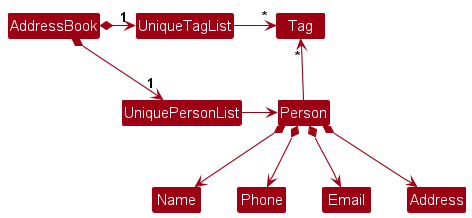
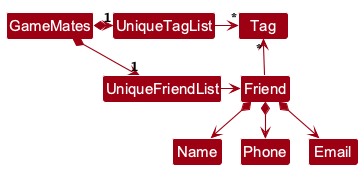
Deploying to gh-pages from @ benwoo1110/tp@bd90ea1fdfd576bb88c184a46715a4b2f2fce923 🚀

Changed region(s): [[0.0, 0.0294, 1.0, 1.0]]

diff --git a/UserGuide.html b/UserGuide.html
@@ -91,7 +91,7 @@ Some example commands you can try:</p>
         <p><code class="language-plaintext highlighter-rouge">list</code> : Lists all contacts.</p>
       </li>
       <li>
-        <p><code class="language-plaintext highlighter-rouge">add n/John Doe p/98765432 e/johnd@example.com a/John street, block 123, #01-01</code> : Adds a contact named <code class="language-plaintext highlighter-rouge">John Doe</code> to GameMates.</p>
+        <p><code class="language-plaintext highlighter-rouge">add n/John Doe p/98765432 e/johnd@example.com</code> : Adds a contact named <code class="language-plaintext highlighter-rouge">John Doe</code> to GameMates.</p>
       </li>
       <li>
         <p><code class="language-plaintext highlighter-rouge">delete 3</code> : Deletes the 3rd contact shown in the current list.</p>
@@ -158,7 +158,7 @@ For example, <code class="language-plaintext highlighter-rouge">help 123</code> 
 
 <p>Adds a friend to GameMates.</p>
 
-<p>Format: <code class="language-plaintext highlighter-rouge">add n/NAME p/PHONE_NUMBER e/EMAIL a/ADDRESS [t/TAG]…</code></p>
+<p>Format: <code class="language-plaintext highlighter-rouge">add n/NAME p/PHONE_NUMBER e/EMAIL [t/TAG]…</code></p>
 
 <div class="alert alert-primary">
 <img class="emoji" title=":bulb:" alt=":bulb:" src="https://github.githubassets.com/images/icons/emoji/unicode/1f4a1.png" height="20" width="20"> <strong>Tip:</strong>
@@ -167,8 +167,8 @@ A friend can have any number of tags, including zero.
 
 <p>Examples:</p>
 <ul>
-  <li><code class="language-plaintext highlighter-rouge">add n/John Doe p/98765432 e/johnd@example.com a/John street, block 123, #01-01</code></li>
-  <li><code class="language-plaintext highlighter-rouge">add n/Betsy Crowe t/friend e/betsycrowe@example.com a/Newgate Prison p/1234567 t/criminal</code></li>
+  <li><code class="language-plaintext highlighter-rouge">add n/John Doe p/98765432 e/johnd@example.com</code></li>
+  <li><code class="language-plaintext highlighter-rouge">add n/Betsy Crowe t/friend e/betsycrowe@example.com p/1234567 t/criminal</code></li>
 </ul>
 
 <h3 id="listing-all-friends-list">Listing all friends: <code class="language-plaintext highlighter-rouge">list</code>
@@ -183,7 +183,7 @@ A friend can have any number of tags, including zero.
 
 <p>Edits an existing friend in GameMates.</p>
 
-<p>Format: <code class="language-plaintext highlighter-rouge">edit INDEX [n/NAME] [p/PHONE] [e/EMAIL] [a/ADDRESS] [t/TAG]…</code></p>
+<p>Format: <code class="language-plaintext highlighter-rouge">edit INDEX [n/NAME] [p/PHONE] [e/EMAIL] [t/TAG]…</code></p>
 
 <ul>
   <li>Edits the friend at the specified <code class="language-plaintext highlighter-rouge">INDEX</code>. The index refers to the index number shown in the displayed friend list. The index <strong>must be a positive integer</strong> 1, 2, 3, …</li>
@@ -314,7 +314,7 @@ Furthermore, certain edits can cause GameMates to behave in unexpected ways (e.g
     <tr>
       <td><strong>Add</strong></td>
       <td>
-<code class="language-plaintext highlighter-rouge">add n/NAME p/PHONE_NUMBER e/EMAIL a/ADDRESS [t/TAG]…</code> <br> e.g., <code class="language-plaintext highlighter-rouge">add n/James Ho p/22224444 e/jamesho@example.com a/123, Clementi Rd, 1234665 t/friend t/colleague</code>
+<code class="language-plaintext highlighter-rouge">add n/NAME p/PHONE_NUMBER e/EMAIL [t/TAG]…</code> <br> e.g., <code class="language-plaintext highlighter-rouge">add n/James Ho p/22224444 e/jamesho@example.com t/friend t/colleague</code>
 </td>
     </tr>
     <tr>
@@ -330,7 +330,7 @@ Furthermore, certain edits can cause GameMates to behave in unexpected ways (e.g
     <tr>
       <td><strong>Edit</strong></td>
       <td>
-<code class="language-plaintext highlighter-rouge">edit INDEX [n/NAME] [p/PHONE_NUMBER] [e/EMAIL] [a/ADDRESS] [t/TAG]…</code><br> e.g., <code class="language-plaintext highlighter-rouge">edit 2 n/James Lee e/jameslee@example.com</code>
+<code class="language-plaintext highlighter-rouge">edit INDEX [n/NAME] [p/PHONE_NUMBER] [e/EMAIL] [t/TAG]…</code><br> e.g., <code class="language-plaintext highlighter-rouge">edit 2 n/James Lee e/jameslee@example.com</code>
 </td>
     </tr>
     <tr>
